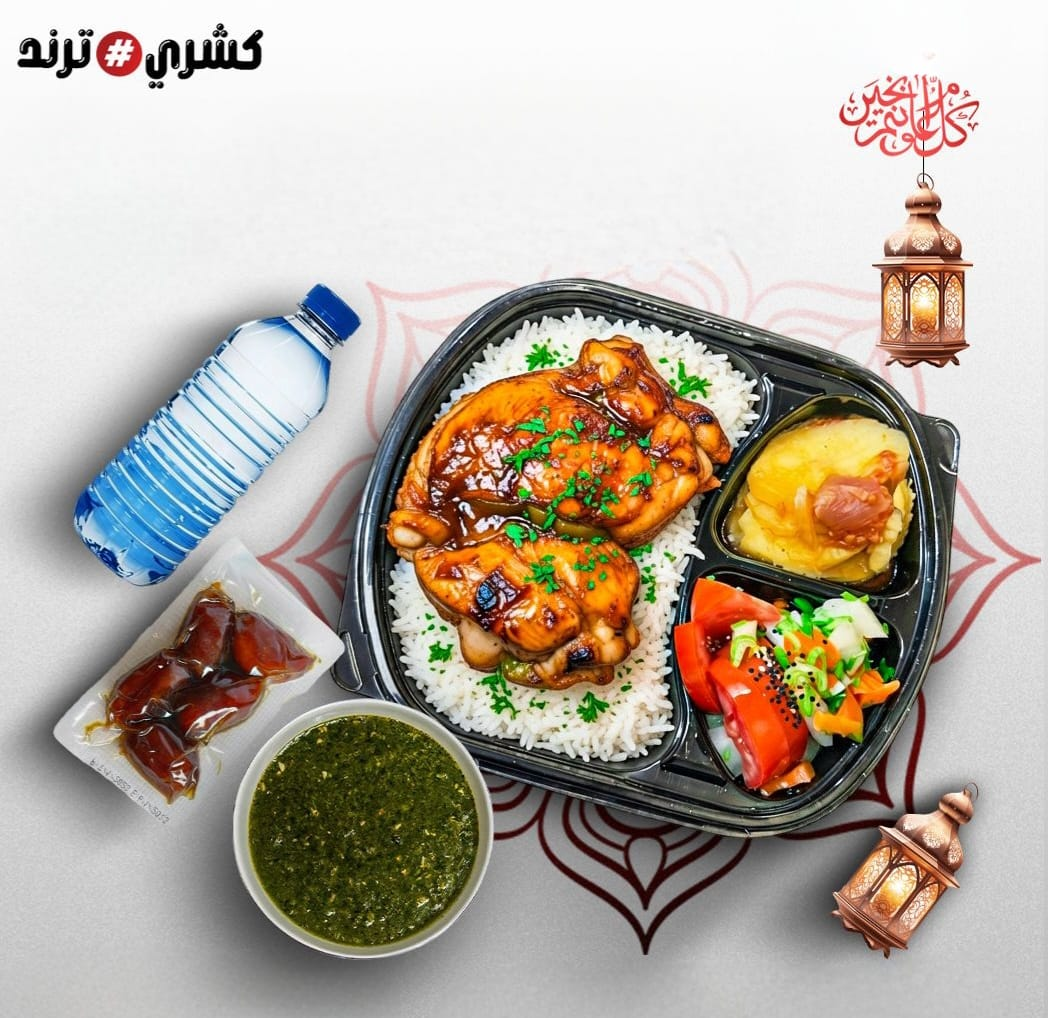
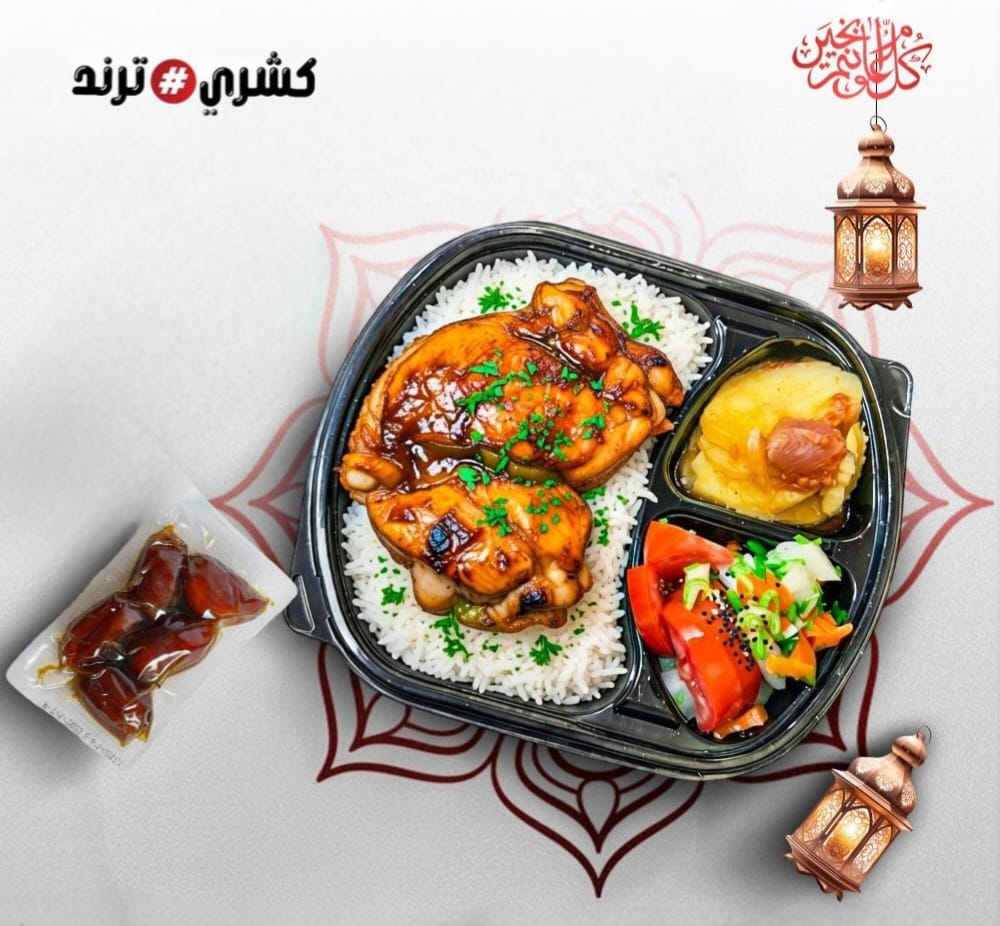
last ramdan adds

diff --git a/js/index.js b/js/index.js
@@ -38,10 +38,10 @@ const menuData = [
   {
     id: 904,
     title: "وجبة ربع حبة فرن",
-    price: "11 ريال",
+    price: "9 ريال",
     category: "ramadan",
     img: "images/rob3-ram-forn.jpeg",
-    description: "أرز + إيدام + سلطة + مخلل + مياه + تمر",
+    description: "أرز + سلطة + مخلل + تمر",
   },
   // --- RAMADAN END ---
 
@@ -155,7 +155,7 @@ const menuData = [
   },
   {
     id: 14,
-    title: "كريب كفته مشويه",
+    title: "كريب كباب مشوي",
     price: "20 ريال",
     category: "crepe",
     img: "images/kr-kof.jpg",
@@ -337,7 +337,7 @@ const menuData = [
     title: "سندوتش سجق",
     price: "12 ريال",
     category: "sandwich",
-    img: "images/unnamed (42).jpg",
+    img: "images/sogok-sand.jpeg",
   },
   {
     id: 101,
@@ -379,7 +379,7 @@ const menuData = [
     title: "سندوتش كباب لحم",
     price: "10 ريال",
     category: "sandwich",
-    img: "images/unnamed (48).jpg",
+    img: "images/unnamed (42).jpg",
   },
   {
     id: 107,
@@ -395,27 +395,27 @@ const menuData = [
     title: "محشى مشكل صغير",
     price: "10 ريال",
     category: "mahashi",
-    img: "images/unnamed (50).jpg",
+    img: "images/ma7shy-mshakl-s.jpeg",
   },
   {
     id: 121,
     title: "فرد حمام محشي",
     price: "30 ريال",
-    category: "mahashi",
+    category: "hot_meal",
     img: "images/unnamed (51).jpg",
   },
   {
     id: 122,
     title: "سمبوسة لحم ( 5 حبه )",
     price: "8 ريال",
-    category: "mahashi",
+    category: "extra",
     img: "images/samb.jpg",
   },
   {
     id: 123,
     title: "سمبوسة جبن ( 5 حبه )",
     price: "5 ريال",
-    category: "mahashi",
+    category: "extra",
     img: "images/unnamed (53).jpg",
   },
   {
@@ -437,7 +437,7 @@ const menuData = [
     title: "محشي مشكل كبير",
     price: "20 ريال",
     category: "mahashi",
-    img: "images/unnamed (56).jpg",
+    img: "images/ma7shy-mshakl-xl.jpeg",
   },
 
   // Extras
@@ -960,7 +960,7 @@ function addToCart(id) {
     return;
   }
 
-  if (id === 903 || id === 904) {
+  if (id === 903) {
     tempProductId = id;
     const modalEl = document.getElementById("edamModal");
     const modal = new bootstrap.Modal(modalEl);
